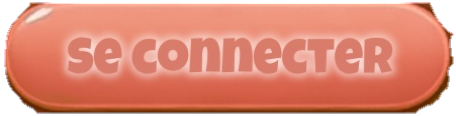
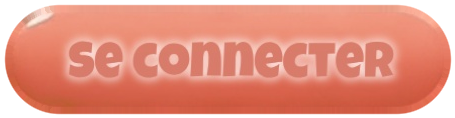
08-page-accueil.md: geometric re-cut of PLAY/SE CONNECTER buttons
Both buttons are vector-designed stadium shapes (capsule: corner radius
equal to half the height), and every color-threshold approach kept finding
a new spot where the ambient dirt/bush shadow they sit on shares too much
hue with the button's own pink to draw a clean boundary. Rather than keep
chasing that pixel-by-pixel, measured the true edge on each side (the point
of steepest color change, reliably distinct from the shadow's much slower
gradient) and fit the exact capsule geometry from those points, then used
it directly as the mask -- the outer boundary no longer touches a color
threshold at all. The interior (shading, highlight, text, the button's own
bevel border) is still exactly the photographed pixels.

Claude-Session: https://claude.ai/code/session_01QJhmBXxG8bP3KG6H3AZ1rh

diff --git a/mobile/README.md b/mobile/README.md
@@ -387,31 +387,29 @@ What *doesn't* depend on that missing asset is done:
   than rebuild in code, to keep the exact painted bevel/highlight/gradient).
   The crop was harder than a normal détourage because the pills sit on the
   dirt path, not a flat background: both buttons cast a soft shadow onto
-  the path in the ~20px gap between them, and that cast shadow shares
-  enough of the pill's own pink/salmon hue that plain background-color-
-  distance thresholding pulled the shadow in as part of the shape (and, on
-  one attempt, bridged the two buttons into a single connected blob).
-  Fixed by finding the row where each button's own color ramps sharply back
-  up to full brightness (the true edge) versus where it's still just the
-  ambient shadow gradually fading back to bare dirt, and cropping the
-  source region at that row instead of at a fixed margin — no color
-  threshold ever has to touch the shadow pixels at all. A second pass
-  tightened "se connecter"'s crop on the right, where a bush's own cast
-  shadow on the path was similarly close enough in hue to bridge in as a
-  stray blob. Both are saved with the ambient path shadow deliberately
-  excluded, since a reusable UI sprite shouldn't carry a shadow baked in
-  from one specific background. A follow-up pass fixed two remaining
-  issues: a muddy fringe along the edges (the crop wasn't eroding past the
-  contaminated boundary band, so edge pixels still carried a mix of button
-  and background color baked in -- fixed by eroding deeper and unmixing
-  the background color out of the remaining feather band, same as the
-  earlier game-element sprites) and a jagged notch on "se connecter"'s
-  top-right corner (a scrap of the bush's cast shadow close enough in hue
-  to survive every color threshold tried -- fixed by smoothing the
-  silhouette's boundary via a blurred signed-distance re-threshold, since
-  a stadium-shaped button has no real jagged detail to preserve, so any
-  small notch or spike left after color thresholding is by definition an
-  artifact).
+  the path in the gap between them, a bush casts another shadow next to
+  "se connecter", and both shadows share enough of the pill's own
+  pink/salmon hue that every plain color-distance threshold tried pulled
+  some of one or the other in as part of the shape -- as a fringe, as a
+  jagged notch, or (worst case) as a bridge fusing the two buttons into one
+  blob. Went through a few fixes chasing this pixel-by-pixel (cropping the
+  source at the row where color snaps back to full brightness rather than a
+  fixed margin, deeper erosion plus unmixing the background out of the
+  remaining edge band, blurring the silhouette's signed distance to smooth
+  a stray notch) before recognizing these are vector-designed stadium
+  buttons -- a perfect capsule shape (rounded-rect corner radius equal to
+  half the height) -- so the outer silhouette doesn't need to be *found* at
+  all: it's two straight color transitions and a radius. Measured the true
+  edge on each side as the point of steepest color change (reliably
+  distinct from the ambient shadow's much slower gradient) at several
+  points along each side, fit the exact capsule from those, and used it
+  directly as the mask -- no color threshold touches the outer boundary
+  anymore. The interior (all shading, the highlight, the text, the
+  button's own dark bevel border) is still exactly the photographed
+  pixels; only the outer edge is reconstructed as the precise geometric
+  shape the button was always drawn as, extrapolated a few px past a
+  safely-interior sample so the edge color has no background blended into
+  it at all.
 - `lib/widgets/home_action_buttons.dart` — `PlayButton` and `SignInButton`,
   each just the cropped art wrapped in `SpringButton` for the required
   press/spring feedback. `onPressed` is left to the caller (load local
